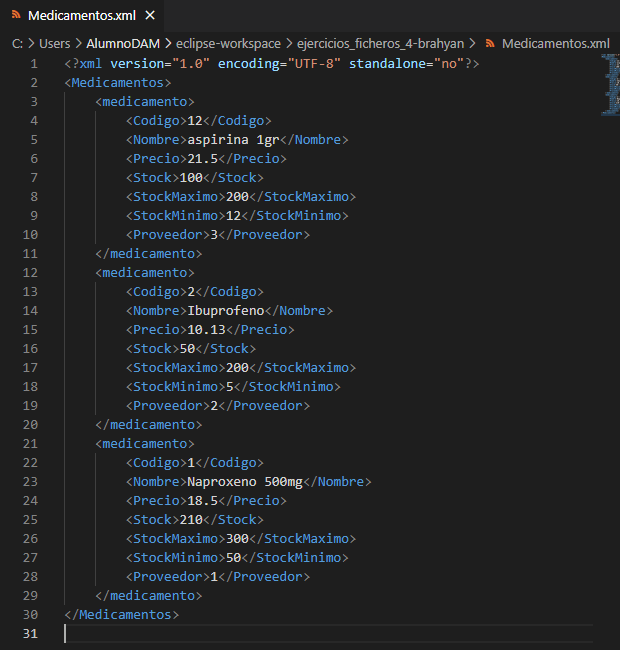
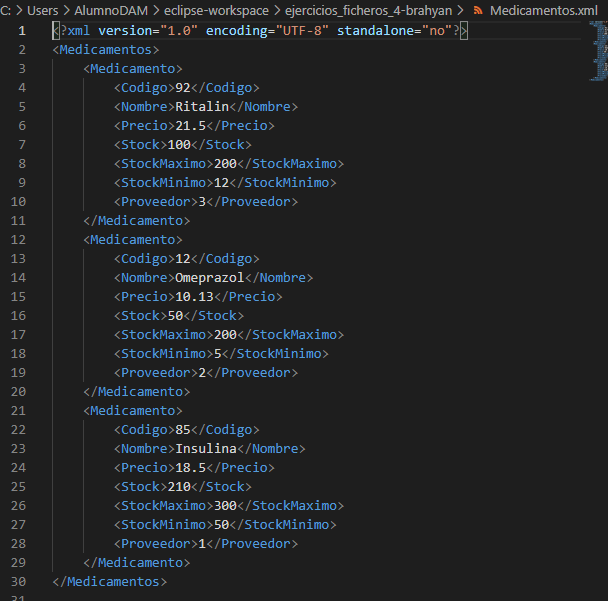
Finalizada implementacon leer FarmaciaDOM

Changed region(s): [[0.0, 0.0, 1.0, 1.0], [0.125, 0.7188, 0.1562, 0.8985], [0.125, 0.1797, 0.1562, 0.3295]]

diff --git a/src/dao/FarmaciaDOM.java b/src/dao/FarmaciaDOM.java
@@ -25,11 +25,66 @@ public class FarmaciaDOM{
 	 * @param farmacia
 	 * @return
 	 */
-	public boolean leer(Path farmaciaXML) {
+	//Nombre del fichero que guardara los medicamentos
+	public final String FICHERO_FARMACIA = "Medicamentos.xml";
+	//Etiqueta que guardara cada medicamento
+	private final String ETIQUETA_MEDICAMENTO = "Medicamento";
+	//Propiedades de los medicamentos que se guardaran
+	private static final String CODIGO_MEDICAMENTO = "Codigo";
+	private static final String NOMBRE_MEDICAMENTO = "Nombre";
+	private static final String PRECIO_MEDICAMENTO = "Precio";
+	private static final String STOCK_MEDICAMENTO = "Stock";
+	private static final String STOCK_MAXIMO_MEDICAMENTO = "StockMaximo";
+	private static final String STOCK_MINIMO_MEDICAMENTO = "StockMinimo";
+	private static final String PROVEEDOR_MEDICAMENTO = "Proveedor";
+	
+	public Farmacia leer(Path farmaciaXML) {
 		
-		boolean leidoCorrectamente = false;
+		Farmacia farmaciaLeida = new Farmacia();
 		
-		return leidoCorrectamente;
+		try {
+			//Obtencion de instancia de DocumentBuilder
+			DocumentBuilderFactory factory = DocumentBuilderFactory.newInstance();
+			DocumentBuilder builder = factory.newDocumentBuilder();
+			//Parseado del documento XML
+			Document document = builder.parse(  farmaciaXML.toAbsolutePath().resolve(FICHERO_FARMACIA).toFile()  );
+			//Normalizacion del contenido del fichero para poder tratarlo
+			document.getDocumentElement().normalize();
+			//Se obtienen todos los elementos medicamento del documento
+			NodeList listaMedicamentos = document.getElementsByTagName(ETIQUETA_MEDICAMENTO);
+			
+			for ( int i=0; i<listaMedicamentos.getLength();i++ ) {
+				//Obtenemos el nodo medicamento en cada iteracion
+				Node nodoMedicamento = listaMedicamentos.item(i);
+				//Comprobamos que el nodo que tenemos es un elemento y no otro tipo de nodo
+				if ( nodoMedicamento.getNodeType() == Node.ELEMENT_NODE) {
+					//Casteamos el nodo a elemento ya que ya sabemos que es un elemento
+					Element medicamento = (Element) nodoMedicamento;
+					//Guardado de los datos de cada medicamento para añadirlo a la farmacia
+					int codigo = Integer.parseInt( getChilNodeValue(medicamento, CODIGO_MEDICAMENTO) );
+					String nombre = getChilNodeValue(medicamento, NOMBRE_MEDICAMENTO);
+					double precio = Double.parseDouble( getChilNodeValue(medicamento, PRECIO_MEDICAMENTO) );
+					int stock = Integer.parseInt( getChilNodeValue(medicamento, STOCK_MEDICAMENTO) );
+					int stockMaximo = Integer.parseInt( getChilNodeValue(medicamento, STOCK_MAXIMO_MEDICAMENTO) );
+					int stockMinimo = Integer.parseInt( getChilNodeValue(medicamento, STOCK_MINIMO_MEDICAMENTO) );
+					int proveedor = Integer.parseInt( getChilNodeValue(medicamento, PROVEEDOR_MEDICAMENTO) );
+					//Guardado del medicamento leido en la farmacia
+					farmaciaLeida.guardar( new Medicamento(codigo, nombre, precio, stock, stockMaximo, stockMinimo, proveedor) );
+				}
+				
+			}
+
+		} catch (Exception e) {
+			System.err.println("ERROR en la lectura de los medicamentos del fichero XML");
+		}
+		
+		return farmaciaLeida;
+	}
+	
+	private String getChilNodeValue ( Element elemento, String nodoHijo ) {
+		//Captura el valor de la etiqueta hija buscada, en el elemento deseado
+		Element nodo = (Element) elemento.getElementsByTagName(nodoHijo).item(0);
+		return nodo.getTextContent();
 	}
 	
 	/**
@@ -53,15 +108,15 @@ public class FarmaciaDOM{
 			 
 			for (Medicamento med : farmacia.leerTodos() ) {
 				//Creacion de etiqueta <medicamento> que luego se añadira a la raiz <medicamentos>
-				Element medicamento = document.createElement("medicamento");
+				Element medicamento = document.createElement(ETIQUETA_MEDICAMENTO);
 				//Se crea una etiqueta hija para cada propiedad del medicamento con su valor y se anida en <medicamento>
-				addMedicamento(document,medicamento, "Codigo", Integer.toString( med.getCod()) );
-				addMedicamento(document,medicamento, "Nombre", med.getNombre() );
-				addMedicamento(document,medicamento, "Precio", Double.toString(med.getPrecio()) );
-				addMedicamento(document,medicamento, "Stock", Integer.toString( med.getStock()) );
-				addMedicamento(document,medicamento, "StockMaximo", Integer.toString( med.getStockMaximo()) );
-				addMedicamento(document,medicamento, "StockMinimo", Integer.toString( med.getStockMinimo()) );
-				addMedicamento(document,medicamento, "Proveedor", Integer.toString( med.getCodProveedor()) );
+				addMedicamento(document,medicamento, CODIGO_MEDICAMENTO , Integer.toString( med.getCod()) );
+				addMedicamento(document,medicamento, NOMBRE_MEDICAMENTO , med.getNombre() );
+				addMedicamento(document,medicamento, PRECIO_MEDICAMENTO , Double.toString(med.getPrecio()) );
+				addMedicamento(document,medicamento, STOCK_MEDICAMENTO , Integer.toString( med.getStock()) );
+				addMedicamento(document,medicamento, STOCK_MAXIMO_MEDICAMENTO , Integer.toString( med.getStockMaximo()) );
+				addMedicamento(document,medicamento, STOCK_MINIMO_MEDICAMENTO , Integer.toString( med.getStockMinimo()) );
+				addMedicamento(document,medicamento, PROVEEDOR_MEDICAMENTO , Integer.toString( med.getCodProveedor()) );
 				//Se añade medicamento al elemento raiz <medicamentos>
 				document.getDocumentElement().appendChild(medicamento);
 			}
@@ -69,7 +124,7 @@ public class FarmaciaDOM{
 			
 			//***Guardado del documento en un fichero en el directorio de trabajo
 			Source source = new DOMSource(document);
-			Result result = new StreamResult(new File("Medicamentos.xml"));
+			Result result = new StreamResult(new File(FICHERO_FARMACIA));
 			Transformer transformer = TransformerFactory.newInstance().newTransformer();
 			//Propiedades del fichero XML de salida
 			transformer.setOutputProperty(OutputKeys.INDENT, "yes");

diff --git a/src/controler/TestFarmaciaDOM.java b/src/controler/TestFarmaciaDOM.java
@@ -1,5 +1,8 @@
 package controler;
 
+import java.nio.file.Path;
+import java.nio.file.Paths;
+
 import dao.FarmaciaDOM;
 import modelo.Farmacia;
 import modelo.Medicamento;
@@ -12,15 +15,20 @@ public class TestFarmaciaDOM {
 		Farmacia farmacia = new Farmacia();
 		FarmaciaDOM farmaciaDOM = new FarmaciaDOM();
 		//creacion de medicamentos
-		Medicamento med1 = new Medicamento(12,"aspirina 1gr",21.50,100,200,12,3);
-		Medicamento med2 = new Medicamento(2,"Ibuprofeno",10.13,50,200,5,2);
-		Medicamento med3 = new Medicamento(1,"Naproxeno 500mg",18.50,210,300,50,1);
+		Medicamento med1 = new Medicamento(92,"Ritalin",21.50,100,200,12,3);
+		Medicamento med2 = new Medicamento(12,"Omeprazol",10.13,50,200,5,2);
+		Medicamento med3 = new Medicamento(85,"Insulina",18.50,210,300,50,1);
 		//guardamos los medicamentos
 		farmacia.guardar(med1);
 		farmacia.guardar(med2);
 		farmacia.guardar(med3);
-		
+		//Guardamos los medicamentos de la farmacia en el fichero XML en el directorio de trabajo
 		farmaciaDOM.guardar(farmacia);
+		//Lectura del ficheo XML anteriormente creado
+		Path workingDirectory = Paths.get("").toAbsolutePath();
+		 for ( Medicamento med : farmaciaDOM.leer(workingDirectory).leerTodos() ) {
+			 System.out.println( med );
+		 }
 
 	}
 

diff --git a/readme.md b/readme.md
@@ -8,6 +8,11 @@
 ![captura consola](./capturasPantalla/CapturaFarmacia.PNG)
 
 # Implemtentacion FarmaciaDOM guardado de Farmacia en XML
-fihero: Medicamentos.xml
+fichero: Medicamentos.xml
 
 ![captura consola](./capturasPantalla/CapturaFarmaciaDOMguardar.PNG)
+
+# Implemtentacion FarmaciaDOM lectura de Farmacia en XML
+fichero: Medicamentos.xml
+
+![captura consola](./capturasPantalla/CapturaFarmaciaDOMleer.PNG)
